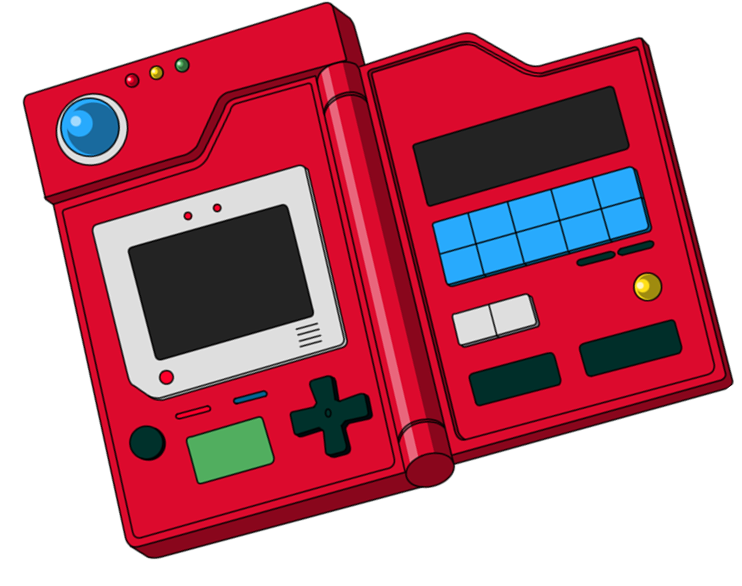
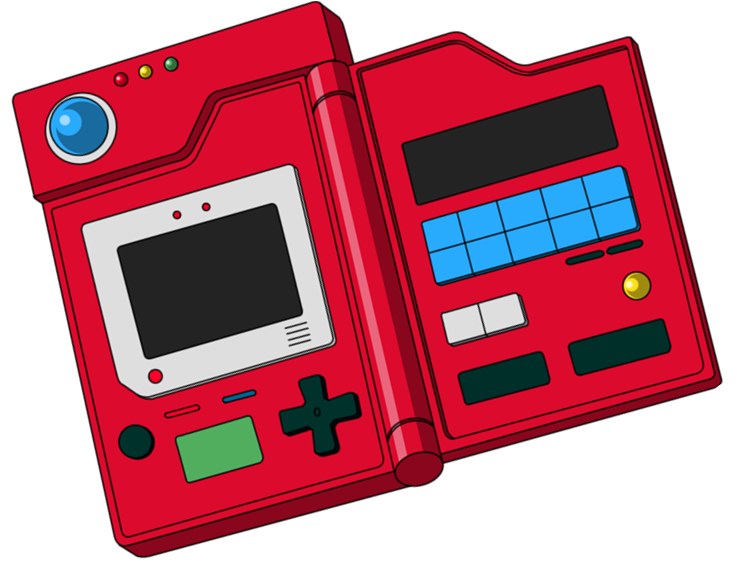
animation for carousel hiding and showwing, adjusts on pokedex size

Changed region(s): [[0.0, 0.0, 1.0, 1.0], [0.5625, 0.2121, 0.6562, 0.2424], [0.6562, 0.1818, 0.7188, 0.2121]]

diff --git a/app/js/index.js b/app/js/index.js
@@ -106,7 +106,7 @@ class Pokemon {
 
 let currentPokemon = {};
 let currentPokedexState = PokedexState.CLOSED;
-let pokemonList = [];
+let pokemonList = [{name:'bulbasaur'}];
 
 function getPokemon(name, callback) {
   p.getPokemonByName(name) 
@@ -126,12 +126,7 @@ function setHandlers() {
     const answerIsValid = validateAnswer(answer);
     if(answerIsValid) {
       pokemonList.push(currentPokemon);
-      const pokedex_carousel = $(ScreenElements.POKEDEX_CAROUSEL);
-      pokedex_carousel.text("");
-      pokemonList.forEach(pokemon => {
-        console.log(pokemon.name);
-        pokedex_carousel.text(pokedex_carousel.text() + pokemon.name + ", ");
-      })
+      updateCarousel();
       currentPokemon = undefined;
       skipPokemon();
     }
@@ -183,6 +178,7 @@ function setPokedexState(state) {
 }
 
 function openPokedex() {
+  updateCarousel();
   const pokedex_device = $(ScreenElements.POKEDEX_DEVICE);
   pokedex_device.removeClass('pokedex__device--closed');
   pokedex_device.addClass('pokedex__device--openned');
@@ -194,12 +190,25 @@ function closePokedex() {
   pokedex_device.addClass('pokedex__device--closed');
 }
 
+function updateCarousel() {
+  const pokedex_carousel = $(ScreenElements.POKEDEX_CAROUSEL);
+  pokedex_carousel.text("");
+  pokemonList.forEach(pokemon => {
+    console.log(pokemon.name);
+    pokedex_carousel.text(pokedex_carousel.text() + pokemon.name + ", ");
+  })
+  const lastCommaIndex = pokedex_carousel.text().trim().length - 1;
+  pokedex_carousel.text(pokedex_carousel.text().substring(0,lastCommaIndex));
+}
+
 function showCarousel() {
   const pokedex_carousel = $(ScreenElements.POKEDEX_CAROUSEL);
   const pokedex_no_pokemons = $(ScreenElements.POKEDEX_NO_POKEMOnS);
-  if(pokemonList && pokemonList.length > 0) {
+  if(hasPokemons()) {
     pokedex_carousel.removeClass('u_hide');
     pokedex_carousel.addClass('u_show');
+    pokedex_carousel.removeClass('end-carousel');
+    pokedex_carousel.addClass('start-carousel');
 
     pokedex_no_pokemons.removeClass('u_show');
     pokedex_no_pokemons.addClass('u_hide');
@@ -216,11 +225,26 @@ function showCarousel() {
 function hideCarousel() {
   const pokedex_carousel = $(ScreenElements.POKEDEX_CAROUSEL);
   const pokedex_no_pokemons = $(ScreenElements.POKEDEX_NO_POKEMOnS);
-  pokedex_carousel.removeClass('u_show');
-  pokedex_carousel.addClass('u_hide');
+  if(hasPokemons()) {
+    pokedex_carousel.removeClass('u_hide');
+    pokedex_carousel.addClass('u_show');
+    pokedex_carousel.removeClass('start-carousel');
+    pokedex_carousel.addClass('end-carousel');
 
-  pokedex_no_pokemons.removeClass('u_show');
-  pokedex_no_pokemons.addClass('u_hide');
+    pokedex_no_pokemons.removeClass('u_show');
+    pokedex_no_pokemons.addClass('u_hide');
+  }
+  else {
+    pokedex_carousel.removeClass('u_show');
+    pokedex_carousel.addClass('u_hide');
+
+    pokedex_no_pokemons.removeClass('u_show');
+    pokedex_no_pokemons.addClass('u_hide');
+  }
+}
+
+function hasPokemons() {
+  return pokemonList && pokemonList.length > 0;
 }
 
 function cleanInput() {

diff --git a/app/scss/components/_carousel.scss b/app/scss/components/_carousel.scss
@@ -1,0 +1,51 @@
+.carousel {
+  color: red;
+  background-color: black;
+}
+
+.start-carousel {
+  animation-name: startCarousel;
+  animation-duration: 1.5s;
+}
+
+.end-carousel {
+  animation-name: endCarousel;
+  animation-duration: 1.5s;
+}
+
+@keyframes endCarousel {
+  0% {
+    opacity: 1;
+  }
+  100% {
+    opacity: 0;
+  }
+}
+
+@keyframes startCarousel {
+
+  0% {
+    opacity: 0;
+    /* transform: translateX(-100px); */
+  }
+
+  /* 10% {
+    transform: rotate(180deg);
+  }
+
+  75% {
+    transform: translateX(10px);
+  } */
+
+  100% {
+    opacity: 1;
+    /* transform: translateX(0) rotate(360deg); */
+  }
+}
+
+/* .animaiton-element-class {
+  animation-name: animationName; (to call the animation)
+  animation-duration: 3s; (to set the animation duration)
+  animation-delay: 5s; (to repeat the animation after the delays set)
+  animation-iteration-count: 4; (to repeat the iterations by the count time set)
+} */

diff --git a/app/scss/pages/_home.scss b/app/scss/pages/_home.scss
@@ -100,25 +100,25 @@
   width: 100%;
   display: flex;
   &__device {
-    width: 40%;
+    width: 30%;
     &--openned {
-      width: 40%;
       height: 100%;
-      margin-top: -15px;
-      margin-left: -10px;
-      background-size: 100% 100%;
-      background-image: url("assets/pokedex_openned.png");
+      background-size: 100% 87%;
+      background-repeat: no-repeat;
+      background-image: url(assets/pokedex_openned.png);
     }
     &--closed {
-      width: 39%;
       height: 80%;
-      background-size: 60% 100%;
+      background-size: 70% 100%;
       background-repeat: no-repeat;
-      background-image: url("assets/pokedex_closed.png");
+      background-image: url(assets/pokedex_closed.png);
     }
   }
+  &-carousel-box {
+    width: 70%;
+  }
   &__carousel {
-    width: 500px;;
+    width: 100%;
     height: 100%;
   }
 

diff --git a/index.html b/index.html
@@ -49,7 +49,7 @@
             <a id="pokedex" href="javascript:void(0)" class="u_fill-div"></a>
         </div>
         <div id="pokedex-carousel-box">
-          <div id="pokedex_carousel" class="pokedex__carousel u_hide">
+          <div id="pokedex_carousel" class="pokedex__carousel carousel u_hide">
             
           </div>
           <div id="pokedex_no_pokemons" class="no-pokemons u_hide"> 

diff --git a/app/scss/index.scss b/app/scss/index.scss
@@ -8,7 +8,7 @@
 @import "./base/_utilities.scss";
 
 @import "./components/_card.scss";
-@import "./components/_pokedex.scss";
+@import "./components/_carousel.scss";
 
 @import "./layouts/_header.scss";
 

diff --git a/app/scss/layouts/_header.scss b/app/scss/layouts/_header.scss
@@ -1,5 +1,5 @@
 .header {
-  height: 16rem;
+  height: 20rem;
   background-image: url("assets/header.jpg") ;
   background-size: 100% 100%;
   background-repeat: no-repeat;
